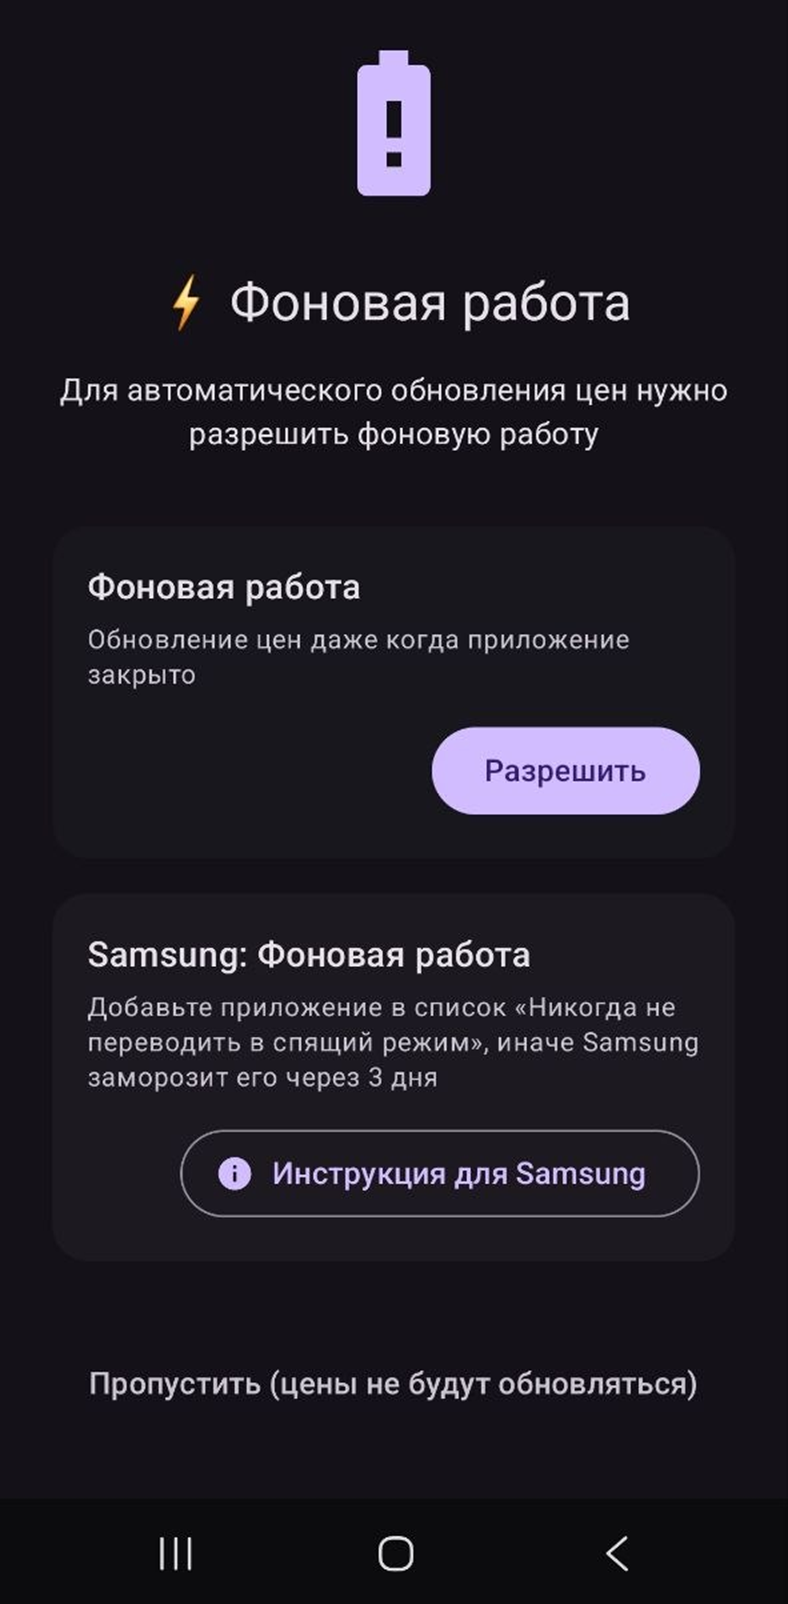
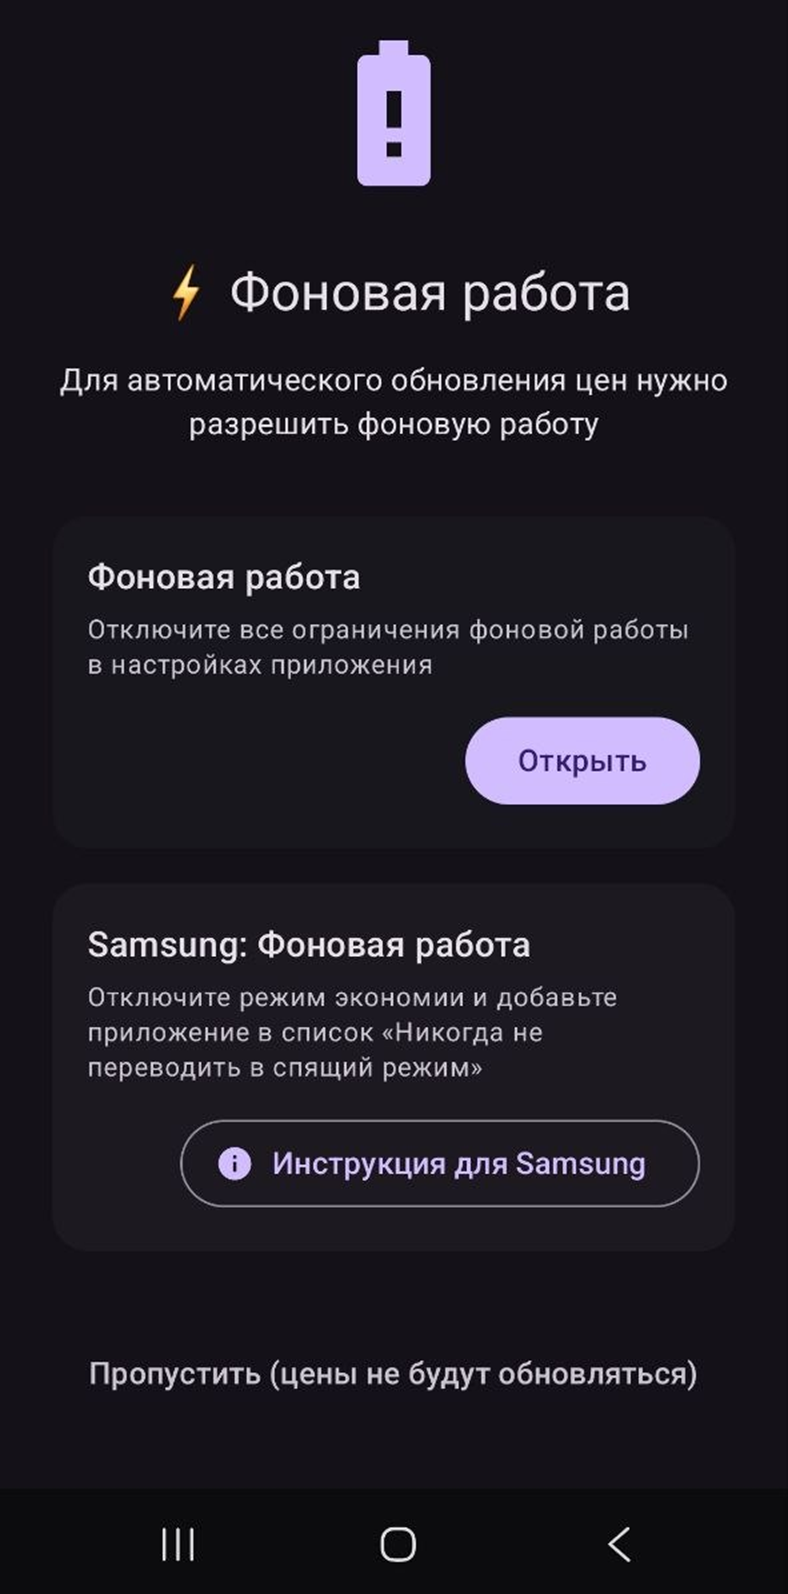
Update permissions

diff --git a/app/src/main/java/com/example/ozonpricetracking/feature/permissions/presentation/PermissionsScreen.kt b/app/src/main/java/com/example/ozonpricetracking/feature/permissions/presentation/PermissionsScreen.kt
@@ -1,6 +1,7 @@
 package com.example.ozonpricetracking.feature.permissions.presentation
 
 import android.os.Build
+import android.widget.Toast
 import androidx.compose.foundation.layout.Arrangement
 import androidx.compose.foundation.layout.Column
 import androidx.compose.foundation.layout.Row
@@ -13,7 +14,6 @@ import androidx.compose.foundation.layout.size
 import androidx.compose.foundation.layout.width
 import androidx.compose.material.icons.Icons
 import androidx.compose.material.icons.filled.BatteryAlert
-import androidx.compose.material.icons.filled.CheckCircle
 import androidx.compose.material.icons.filled.Info
 import androidx.compose.material3.Button
 import androidx.compose.material3.ButtonDefaults
@@ -75,9 +75,9 @@ fun PermissionsScreen(
         uiState = uiState,
         onGrantPermission = {
             try {
-                context.startActivity(viewModel.getBatteryIntent())
+                context.startActivity(viewModel.getAppSettingsIntent())
             } catch (e: Exception) {
-                context.startActivity(viewModel.getFallbackIntent())
+                Toast.makeText(context, "Пожалуйста, откройте настройки телефона вручную и найдите приложение в списке", Toast.LENGTH_LONG).show()
             }
         },
         onNavigateToDkma = onNavigateToDkma,
@@ -128,7 +128,7 @@ fun PermissionsContent(
 
         PermissionStatusItem(
             title = "Фоновая работа",
-            description = "Обновление цен даже когда приложение закрыто",
+            description = "Отключите все ограничения фоновой работы в настройках приложения",
             isGranted = uiState.allGranted,
             onAction = onGrantPermission
         )
@@ -158,7 +158,7 @@ fun PermissionStatusItem(
     description: String,
     isGranted: Boolean,
     onAction: () -> Unit,
-    actionText: String = "Разрешить"
+    actionText: String = "Открыть"
 ) {
     val isInstruction = actionText.contains("Инструкция", ignoreCase = true)
 
@@ -189,14 +189,14 @@ fun PermissionStatusItem(
                     modifier = Modifier.weight(1f)
                 )
 
-                if (isGranted) {
-                    Icon(
-                        imageVector = Icons.Default.CheckCircle,
-                        contentDescription = "Разрешено",
-                        tint = MaterialTheme.colorScheme.primary,
-                        modifier = Modifier.size(24.dp)
-                    )
-                }
+//                if (isGranted) {
+//                    Icon(
+//                        imageVector = Icons.Default.CheckCircle,
+//                        contentDescription = "Разрешено",
+//                        tint = MaterialTheme.colorScheme.primary,
+//                        modifier = Modifier.size(24.dp)
+//                    )
+//                }
             }
 
             Spacer(modifier = Modifier.height(4.dp))
@@ -264,38 +264,98 @@ data class VendorData(
 )
 
 fun getVendorData(manufacturer: String): VendorData? {
-    return when (manufacturer) {
+    return when (manufacturer.lowercase()) {
         "samsung" -> VendorData(
             title = "Samsung: Фоновая работа",
-            description = "Добавьте приложение в список «Никогда не переводить в спящий режим», иначе Samsung заморозит его через 3 дня",
+            description = "Отключите режим экономии и добавьте приложение в список «Никогда не переводить в спящий режим»",
             actionText = "Инструкция для Samsung"
         )
-        "xiaomi" -> VendorData(
-            title = "Xiaomi: Автозапуск",
-            description = "Разрешите автозапуск в настройках, иначе Xiaomi заблокирует фоновую работу",
+        "xiaomi", "redmi" -> VendorData(
+            title = "Xiaomi/Redmi: Автозапуск",
+            description = "Включите автозапуск и отключите оптимизацию батареи в настройках MIUI",
             actionText = "Инструкция для Xiaomi"
         )
         "huawei" -> VendorData(
             title = "Huawei: Фоновая активность",
-            description = "Включите ручное управление запуском, иначе Huawei остановит приложение в фоне",
+            description = "Включите автозапуск, вторичный запуск и работу в фоне в настройках приложения",
             actionText = "Инструкция для Huawei"
         )
-        "oneplus" -> VendorData(
-            title = "OnePlus: Оптимизация",
-            description = "Отключите оптимизацию батареи, иначе OnePlus ограничит фоновую работу",
-            actionText = "Инструкция для OnePlus"
+        "honor" -> VendorData(
+            title = "Honor: Фоновая работа",
+            description = "Отключите оптимизацию батареи и включите автозапуск в настройках",
+            actionText = "Инструкция для Honor"
         )
         "oppo" -> VendorData(
             title = "Oppo: Автозапуск",
-            description = "Разрешите автозапуск, иначе Oppo не даст приложению работать в фоне",
+            description = "Включите автозапуск в Менеджере автозапуска и отключите фоновую заморозку",
             actionText = "Инструкция для Oppo"
+        )
+        "realme" -> VendorData(
+            title = "Realme: Автозапуск",
+            description = "Включите автозапуск и отключите быструю заморозку в настройках батареи",
+            actionText = "Инструкция для Realme"
         )
         "vivo" -> VendorData(
             title = "Vivo: Фоновая активность",
-            description = "Включите неограниченную фоновую активность, иначе Vivo остановит приложение",
+            description = "Включите автозапуск и разрешите неограниченную фоновую активность",
             actionText = "Инструкция для Vivo"
         )
-        else -> null 
+        "oneplus" -> VendorData(
+            title = "OnePlus: Оптимизация",
+            description = "Отключите оптимизацию батареи в настройках приложения",
+            actionText = "Инструкция для OnePlus"
+        )
+        "lenovo" -> VendorData(
+            title = "Lenovo: Энергосбережение",
+            description = "Отключите режим энергосбережения и добавьте приложение в исключения",
+            actionText = "Инструкция для Lenovo"
+        )
+        "meizu" -> VendorData(
+            title = "Meizu: Защита приложений",
+            description = "Добавьте приложение в список защищенных в настройках батареи",
+            actionText = "Инструкция для Meizu"
+        )
+        "asus" -> VendorData(
+            title = "Asus: Умная оптимизация",
+            description = "Отключите умную оптимизацию и включите автозапуск",
+            actionText = "Инструкция для Asus"
+        )
+        "motorola" -> VendorData(
+            title = "Motorola: Оптимизация батареи",
+            description = "Отключите оптимизацию батареи в настройках приложения",
+            actionText = "Инструкция для Motorola"
+        )
+        "sony" -> VendorData(
+            title = "Sony: Режим Stamina",
+            description = "Отключите режим Stamina или добавьте приложение в исключения",
+            actionText = "Инструкция для Sony"
+        )
+        "nokia" -> VendorData(
+            title = "Nokia: Battery Protection",
+            description = "Отключите Battery Protection и оптимизацию батареи",
+            actionText = "Инструкция для Nokia"
+        )
+        "htc" -> VendorData(
+            title = "HTC: Оптимизация батареи",
+            description = "Отключите оптимизацию батареи через настройки приложения",
+            actionText = "Инструкция для HTC"
+        )
+        "blackview" -> VendorData(
+            title = "Blackview: Исключения",
+            description = "Добавьте приложение в исключения оптимизации батареи",
+            actionText = "Инструкция для Blackview"
+        )
+        "tecno" -> VendorData(
+            title = "Tecno: Автозапуск",
+            description = "Включите автозапуск и отключите HiOS оптимизацию",
+            actionText = "Инструкция для Tecno"
+        )
+        "unihertz" -> VendorData(
+            title = "Unihertz: Оптимизация",
+            description = "Отключите оптимизацию батареи в настройках",
+            actionText = "Инструкция для Unihertz"
+        )
+        else -> null
     }
 }
 

diff --git a/app/src/main/java/com/example/ozonpricetracking/feature/details/presentation/components/InteractiveLineChart.kt b/app/src/main/java/com/example/ozonpricetracking/feature/details/presentation/components/InteractiveLineChart.kt
@@ -30,9 +30,10 @@ import androidx.compose.ui.text.rememberTextMeasurer
 import androidx.compose.ui.tooling.preview.Preview
 import androidx.compose.ui.unit.dp
 import androidx.compose.ui.unit.sp
-import com.example.ozonpricetracking.domain.model.OzonPriceHistoryInfo
 import com.example.ozonpricetracking.core.theme.OzonPriceTrackingTheme
+import com.example.ozonpricetracking.core.utils.PreviewData
 import com.example.ozonpricetracking.core.utils.PriceFormatter
+import com.example.ozonpricetracking.domain.model.OzonPriceHistoryInfo
 import java.text.SimpleDateFormat
 import java.util.Date
 import java.util.Locale
@@ -343,30 +344,9 @@ fun InteractiveLineChart(
 @Preview(showBackground = true, uiMode = Configuration.UI_MODE_NIGHT_YES, name = "Темная тема")
 @Composable
 fun InteractiveLineChartPreview() {
-    val mockPrices = listOf(
-        OzonPriceHistoryInfo(0, 1200, 1767225600000L + 3600000 * 10 + 60000 * 15),   
-        OzonPriceHistoryInfo(0, 1150, 1768003200000L + 3600000 * 14 + 60000 * 30),   
-        OzonPriceHistoryInfo(0, 1300, 1768867200000L + 3600000 * 18 + 60000 * 45),   
-        OzonPriceHistoryInfo(0, 1250, 1769904000000L + 3600000 * 9 + 60000 * 20),    
-        OzonPriceHistoryInfo(0, 1400, 1770681600000L + 3600000 * 12 + 60000 * 0),    
-        OzonPriceHistoryInfo(0, 1350, 1771545600000L + 3600000 * 21 + 60000 * 10),   
-        OzonPriceHistoryInfo(0, 1350, 1772323200000L + 3600000 * 8 + 60000 * 5),     
-        OzonPriceHistoryInfo(0, 1100, 1773100800000L + 3600000 * 15 + 60000 * 40),   
-        OzonPriceHistoryInfo(0, 1050, 1773964800000L + 3600000 * 23 + 60000 * 55),   
-        OzonPriceHistoryInfo(0, 1000, 1775001600000L + 3600000 * 7 + 60000 * 30),    
-        OzonPriceHistoryInfo(0, 950,  1775779200000L + 3600000 * 11 + 60000 * 15),   
-        OzonPriceHistoryInfo(0, 900,  1776643200000L + 3600000 * 16 + 60000 * 50),   
-        OzonPriceHistoryInfo(0, 1000, 1777593600000L + 3600000 * 10 + 60000 * 0),    
-        OzonPriceHistoryInfo(0, 1100, 1778371200000L + 3600000 * 13 + 60000 * 25),   
-        OzonPriceHistoryInfo(0, 1250, 1779235200000L + 3600000 * 19 + 60000 * 40),   
-        OzonPriceHistoryInfo(0, 1350, 1780272000000L + 3600000 * 6 + 60000 * 10),    
-        OzonPriceHistoryInfo(0, 1500, 1781049600000L + 3600000 * 14 + 60000 * 50),   
-        OzonPriceHistoryInfo(0, 1450, 1781913600000L + 3600000 * 22 + 60000 * 30)    
-    )
-
     OzonPriceTrackingTheme {
         InteractiveLineChart(
-            data = mockPrices
+            data = PreviewData.history
         )
     }
 }

diff --git a/app/src/main/java/com/example/ozonpricetracking/core/utils/PreviewData.kt b/app/src/main/java/com/example/ozonpricetracking/core/utils/PreviewData.kt
@@ -1,6 +1,5 @@
 package com.example.ozonpricetracking.core.utils
 
-import com.example.ozonpricetracking.R
 import com.example.ozonpricetracking.domain.model.OzonPriceHistoryInfo
 import com.example.ozonpricetracking.domain.model.OzonProductInfo
 import com.example.ozonpricetracking.domain.model.OzonProductWithPriceHistory
@@ -44,5 +43,26 @@ object PreviewData {
             OzonPriceHistoryInfo(3, 118000, System.currentTimeMillis() - 86400000 * 10),
             OzonPriceHistoryInfo(4, 120000, System.currentTimeMillis())
         )
+    )
+
+    val history = listOf(
+        OzonPriceHistoryInfo(0, 1200, 1767225600000L + 3600000 * 10 + 60000 * 15),
+        OzonPriceHistoryInfo(0, 1150, 1768003200000L + 3600000 * 14 + 60000 * 30),
+        OzonPriceHistoryInfo(0, 1300, 1768867200000L + 3600000 * 18 + 60000 * 45),
+        OzonPriceHistoryInfo(0, 1250, 1769904000000L + 3600000 * 9 + 60000 * 20),
+        OzonPriceHistoryInfo(0, 1400, 1770681600000L + 3600000 * 12 + 60000 * 0),
+        OzonPriceHistoryInfo(0, 1350, 1771545600000L + 3600000 * 21 + 60000 * 10),
+        OzonPriceHistoryInfo(0, 1350, 1772323200000L + 3600000 * 8 + 60000 * 5),
+        OzonPriceHistoryInfo(0, 1100, 1773100800000L + 3600000 * 15 + 60000 * 40),
+        OzonPriceHistoryInfo(0, 1050, 1773964800000L + 3600000 * 23 + 60000 * 55),
+        OzonPriceHistoryInfo(0, 1000, 1775001600000L + 3600000 * 7 + 60000 * 30),
+        OzonPriceHistoryInfo(0, 950,  1775779200000L + 3600000 * 11 + 60000 * 15),
+        OzonPriceHistoryInfo(0, 900,  1776643200000L + 3600000 * 16 + 60000 * 50),
+        OzonPriceHistoryInfo(0, 1000, 1777593600000L + 3600000 * 10 + 60000 * 0),
+        OzonPriceHistoryInfo(0, 1100, 1778371200000L + 3600000 * 13 + 60000 * 25),
+        OzonPriceHistoryInfo(0, 1250, 1779235200000L + 3600000 * 19 + 60000 * 40),
+        OzonPriceHistoryInfo(0, 1350, 1780272000000L + 3600000 * 6 + 60000 * 10),
+        OzonPriceHistoryInfo(0, 1500, 1781049600000L + 3600000 * 14 + 60000 * 50),
+        OzonPriceHistoryInfo(0, 1450, 1781913600000L + 3600000 * 22 + 60000 * 30)
     )
 }

diff --git a/app/src/main/java/com/example/ozonpricetracking/feature/permissions/domain/usecase/CheckBatteryOptimizationUseCase.kt b/app/src/main/java/com/example/ozonpricetracking/feature/permissions/domain/usecase/CheckBatteryOptimizationUseCase.kt
@@ -1,6 +1,5 @@
 package com.example.ozonpricetracking.feature.permissions.domain.usecase
 
-import android.annotation.SuppressLint
 import android.content.Context
 import android.content.Intent
 import android.os.PowerManager
@@ -17,13 +16,7 @@ class CheckBatteryOptimizationUseCase @Inject constructor(
         return powerManager.isIgnoringBatteryOptimizations(context.packageName)
     }
 
-    @SuppressLint("BatteryLife")
-    fun getBatteryOptimizationIntent(): Intent {
-        return Intent(Settings.ACTION_REQUEST_IGNORE_BATTERY_OPTIMIZATIONS)
-            .setData("package:${context.packageName}".toUri())
-    }
-
-    fun getFallbackIntent(): Intent {
+    fun getAppSettingsIntent(): Intent {
         return Intent(Settings.ACTION_APPLICATION_DETAILS_SETTINGS)
             .setData("package:${context.packageName}".toUri())
     }

diff --git a/app/src/main/java/com/example/ozonpricetracking/feature/permissions/presentation/PermissionsScreenViewModel.kt b/app/src/main/java/com/example/ozonpricetracking/feature/permissions/presentation/PermissionsScreenViewModel.kt
@@ -26,12 +26,8 @@ class PermissionsScreenViewModel @Inject constructor(
         )
     }
 
-    fun getBatteryIntent(): Intent {
-        return checkBatteryUseCase.getBatteryOptimizationIntent()
-    }
-
-    fun getFallbackIntent(): Intent {
-        return checkBatteryUseCase.getFallbackIntent()
+    fun getAppSettingsIntent(): Intent {
+        return checkBatteryUseCase.getAppSettingsIntent()
     }
 }
 

diff --git a/app/src/main/java/com/example/ozonpricetracking/feature/details/presentation/DetailsScreen.kt b/app/src/main/java/com/example/ozonpricetracking/feature/details/presentation/DetailsScreen.kt
@@ -3,7 +3,6 @@ package com.example.ozonpricetracking.feature.details.presentation
 import android.content.Context
 import android.content.Intent
 import android.content.res.Configuration
-import android.net.Uri
 import androidx.compose.foundation.layout.Arrangement
 import androidx.compose.foundation.layout.Box
 import androidx.compose.foundation.layout.Row
@@ -33,12 +32,13 @@ import androidx.compose.ui.text.font.FontWeight
 import androidx.compose.ui.tooling.preview.Preview
 import androidx.compose.ui.unit.dp
 import androidx.compose.ui.unit.sp
+import androidx.core.net.toUri
 import androidx.hilt.lifecycle.viewmodel.compose.hiltViewModel
 import androidx.lifecycle.compose.collectAsStateWithLifecycle
-import com.example.ozonpricetracking.domain.model.OzonProductWithPriceHistory
 import com.example.ozonpricetracking.core.theme.OzonPriceTrackingTheme
 import com.example.ozonpricetracking.core.utils.PreviewData
 import com.example.ozonpricetracking.core.utils.PriceFormatter
+import com.example.ozonpricetracking.domain.model.OzonProductWithPriceHistory
 import com.example.ozonpricetracking.feature.details.presentation.components.DeleteConfirmationDialog
 import com.example.ozonpricetracking.feature.details.presentation.components.DetailsErrorContent
 import com.example.ozonpricetracking.feature.details.presentation.components.EmptyHistoryPlaceholder
@@ -245,7 +245,7 @@ fun ProductDetailsContent(
 }
 
 fun Context.openLink(url: String) {
-    val intent = Intent(Intent.ACTION_VIEW, Uri.parse(url))
+    val intent = Intent(Intent.ACTION_VIEW, url.toUri())
     startActivity(intent)
 }
 